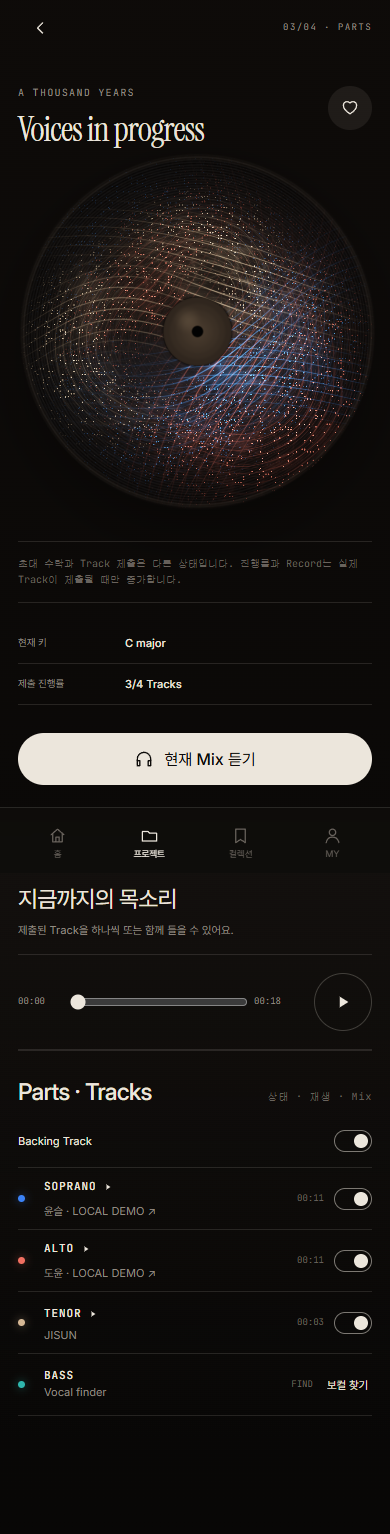
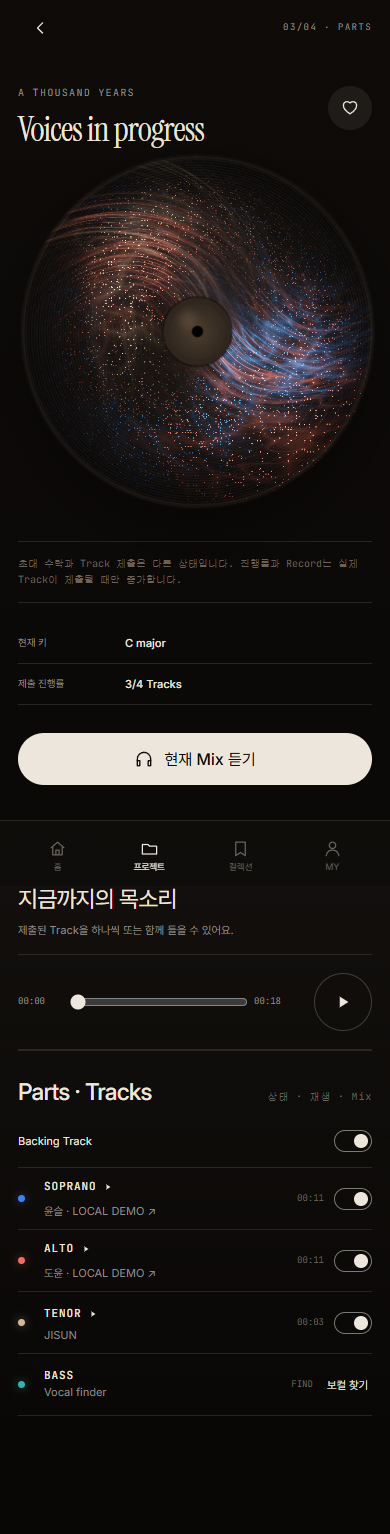
Replace contour bands with shared organic flow

diff --git a/src/App.jsx b/src/App.jsx
@@ -220,7 +220,7 @@ void main(){
   float flowNoise=fbm(polar*2.45+vec2((r-center)*12.+seed,-(r-center)*10.+seed*.4));
   float fibers=pow(.5+.5*cos((r-center)*132.+flowNoise*5.5+sin(theta*3.+seed)*1.1),22.);
   float hair=pow(.5+.5*cos((r-center)*248.+flowNoise*8.5+sin(theta*5.-seed)*.8),28.);
-  float flowAngle=b.x*.72+seed*.17;float cs=cos(flowAngle),sn=sin(flowAngle);vec2 flowP=mat2(cs,-sn,sn,cs)*p;
+  float flowAngle=.68+b.x*.12+seed*.035+r*.95;float cs=cos(flowAngle),sn=sin(flowAngle);vec2 flowP=mat2(cs,-sn,sn,cs)*p;
   vec2 organicP=flowP*vec2(4.2,6.8);float domain=fbm(organicP*.31+vec2(seed,-seed*.37));
   float ridge=pow(1.-abs(noise(organicP+vec2(domain*3.1,-domain*2.4))*2.-1.),4.6);
   float ridgeFine=pow(1.-abs(noise(organicP*1.72+vec2(-domain*2.2,domain*2.8))*2.-1.),8.5);
@@ -230,16 +230,20 @@ void main(){
   float plumeWidth=.12+a.z*.68;float plumeEnvelope=smoothstep(1.08,.2,abs(flowP.x));
   float plume=exp(-1.62*plumeCurve*plumeCurve/(plumeWidth*plumeWidth))*plumeEnvelope;
   float plume2=exp(-2.15*plumeCurve2*plumeCurve2/(plumeWidth*plumeWidth*.72))*plumeEnvelope;
-  float plumeFibers=pow(.5+.5*cos(plumeCurve*105.+domain*4.2+flowP.x*5.8),24.);
-  float plumeFibers2=pow(.5+.5*cos(plumeCurve2*124.+domain*4.8-flowP.x*4.1),26.);
+  float strandNoise=noise(vec2(flowP.x*1.8+domain*1.7,plumeCurve*33.+seed*4.1));
+  float strandNoiseFine=noise(vec2(flowP.x*3.2-domain*1.2,plumeCurve*61.-seed*2.7));
+  float strandNoise2=noise(vec2(flowP.x*1.55-domain*1.9,plumeCurve2*38.+seed*3.3));
+  float plumeFibers=pow(1.-abs(strandNoise*2.-1.),10.)*.76+pow(1.-abs(strandNoiseFine*2.-1.),15.)*.42;
+  float plumeFibers2=pow(1.-abs(strandNoise2*2.-1.),11.);
+  float brokenCadence=.28+.72*smoothstep(.24,.78,noise(vec2(flowP.x*7.2+seed*5.1,plumeCurve*5.3-domain*2.1)));
   vec2 sparkGrid=(p+vec2(seed*.01))*uResolution.x*.18;vec2 sparkCell=floor(sparkGrid);vec2 sparkUv=fract(sparkGrid)-.5;
   float sparkShape=smoothstep(.34,.035,length(sparkUv));float spark=sparkShape*step(.9,hash21(sparkCell+seed))*ribbon*presence;
   vec2 pinGrid=(p+vec2(seed*.013))*uResolution.x*.31;vec2 pinCell=floor(pinGrid);vec2 pinUv=fract(pinGrid)-.5;
   float pinShape=smoothstep(.22,.018,length(pinUv));float pin=pinShape*step(.94,hash21(pinCell-seed))*ribbon*presence;
   float colorHaze=ribbon*presence*(.009+flowNoise*.007)+(plume+plume2)*(.008+domain*.005);
-  float ringFlow=ribbon*presence*(.007+fibers*.19+hair*.08+ridge*.08+ridgeFine*.05);
+  float ringFlow=ribbon*presence*(.005+fibers*.045+hair*.018+ridge*.17+ridgeFine*.11);
   float streamWindow=.025+.975*pow(presence,1.42);
-  float crossingFlow=(plume*(.008+plumeFibers*1.28+ridge*.15+ridgeFine*.09)+plume2*(.006+plumeFibers2*.84+ridgeFine*.1))*streamWindow;
+  float crossingFlow=(plume*(.01+plumeFibers*brokenCadence*1.34+ridge*.18+ridgeFine*.12)+plume2*(.006+plumeFibers2*.86+ridgeFine*.13))*streamWindow;
   float intensity=colorHaze+ringFlow+crossingFlow+spark*3.1+pin*3.4;
   intensity*=.72+b.y*.78+live*uLiveLevel*.55;col+=voiceColor(i)*intensity;
  }
